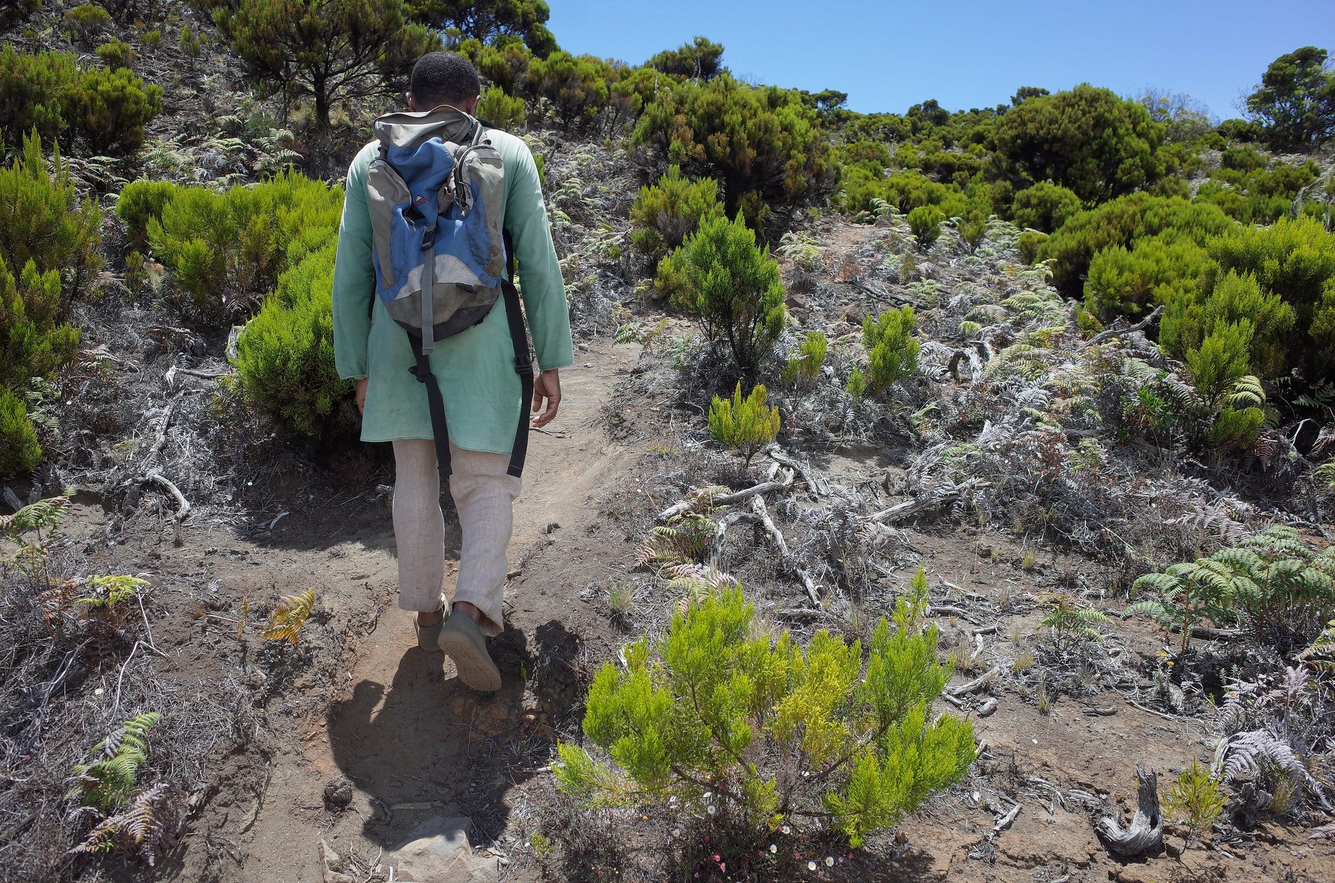
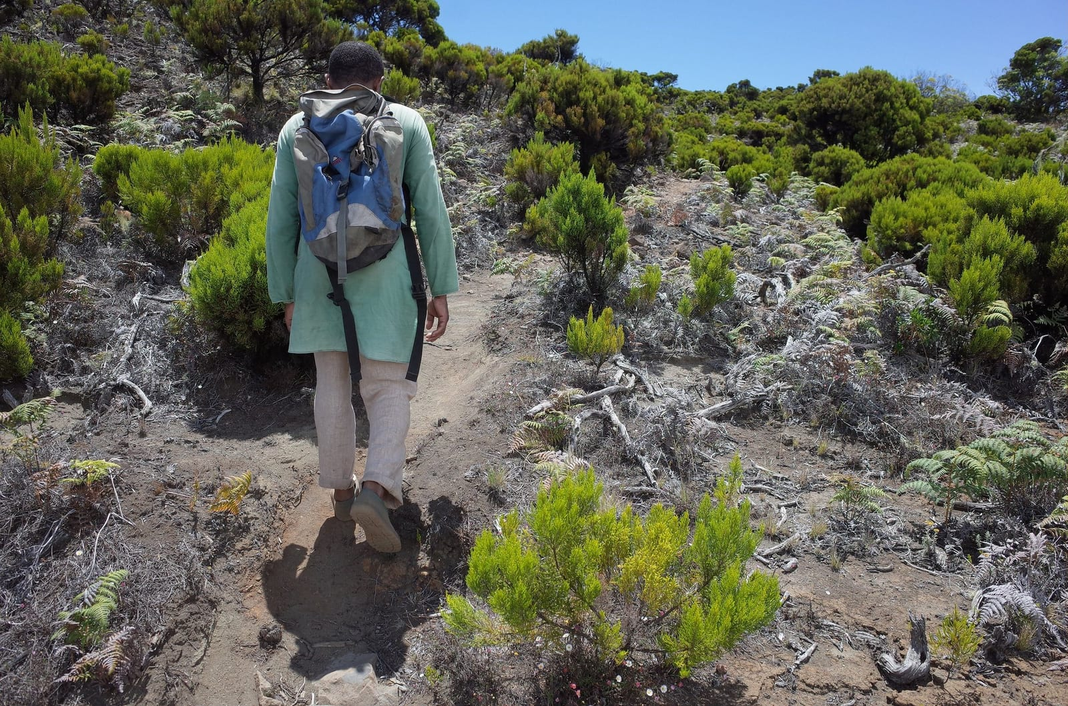
Audit de latence : cache, ISR, envoi d'e-mail différé, images allégées
Corrections de performance :
- Dev : Turbopack (compilation à la première visite 30 à 60 % plus rapide).
- Fiches lieu : ISR (pré-générées, cache 5 min, régénérées par l'admin
  et les nouveaux avis) au lieu d'un rendu à chaque visite ; le lieu
  n'est plus lu deux fois (generateMetadata + page) grâce à cache().
- Admin : requireAdmin() mémoïsé par requête (layout + page = une seule
  vérification en base), compteur du menu chargé en parallèle, écran de
  chargement instantané à chaque navigation.
- Bandeau d'alerte : mis en cache entre les requêtes (tag invalidé par
  l'admin) au lieu d'une requête sur chaque page.
- Contact : délais SMTP (10–20 s au lieu de jusqu'à 10 min) et e-mail
  envoyé après la réponse (after()).
- Photos locales redimensionnées à 1600 px max (11 Mo → 6,1 Mo) :
  première optimisation d'image 0,7 s → 0,26 s.
- Suppression d'un lieu : sa fiche publique en cache est invalidée.

Bug corrigé :
- Le formulaire de contact échouait systématiquement : le champ
  anti-spam « website » était transmis à Prisma, qui refusait
  l'enregistrement.

Claude-Session: https://claude.ai/code/session_013qhc4owDNV7CWZ7fu6og1k

diff --git a/src/lib/queries.ts b/src/lib/queries.ts
@@ -1,4 +1,5 @@
 import { cache } from "react";
+import { unstable_cache } from "next/cache";
 import { prisma } from "@/lib/db";
 import {
   parsePractical,
@@ -63,7 +64,8 @@ export async function listPlaces(filters: PlaceFilters = {}, take?: number): Pro
   return (rows as unknown[]).map(toCard);
 }
 
-export async function getPlaceBySlug(slug: string): Promise<PlaceDetail | null> {
+// cache() : generateMetadata et la page lisent le même lieu sans doubler la requête.
+export const getPlaceBySlug = cache(async (slug: string): Promise<PlaceDetail | null> => {
   const row = await prisma.place.findUnique({
     where: { slug },
     include: { ...placeInclude, images: { orderBy: { order: "asc" } } },
@@ -80,7 +82,7 @@ export async function getPlaceBySlug(slug: string): Promise<PlaceDetail | null> 
     practical: parsePractical(r.practicalInfo),
     images: r.images.map((i) => ({ id: i.id, url: i.url, alt: i.alt, order: i.order })),
   };
-}
+});
 
 export async function getAllPlaceSlugs(): Promise<{ slug: string; updatedAt: Date }[]> {
   const rows = await prisma.place.findMany({ select: { slug: true, updatedAt: true } });
@@ -139,10 +141,21 @@ export async function listReviews(opts: { page?: number; perPage?: number; place
   };
 }
 
+export const ALERT_TAG = "site-alert";
+
+// Affiché sur toutes les pages : mis en cache entre les requêtes, invalidé dès que l'admin modifie le bandeau.
+const cachedAlert = unstable_cache(
+  async () => {
+    const row = await prisma.siteAlert.findFirst({ where: { active: true }, orderBy: { id: "desc" }, select: { id: true, message: true, link: true } });
+    return row as unknown as { id: number; message: string; link: string | null } | null;
+  },
+  ["active-alert"],
+  { tags: [ALERT_TAG], revalidate: 600 },
+);
+
 export async function getActiveAlert() {
   try {
-    const row = await prisma.siteAlert.findFirst({ where: { active: true }, orderBy: { id: "desc" } });
-    return row as unknown as { id: number; message: string; link: string | null } | null;
+    return await cachedAlert();
   } catch {
     return null; // le site reste utilisable même si la base est indisponible
   }

diff --git a/src/actions/admin.ts b/src/actions/admin.ts
@@ -1,11 +1,12 @@
 "use server";
 
-import { revalidatePath } from "next/cache";
+import { revalidatePath, revalidateTag } from "next/cache";
 import { redirect } from "next/navigation";
 import { AuthError } from "next-auth";
 import { signIn, signOut } from "@/auth";
 import { requireAdmin } from "@/lib/admin";
 import { prisma } from "@/lib/db";
+import { ALERT_TAG } from "@/lib/queries";
 import { saveImage } from "@/lib/uploads";
 import { slugify } from "@/lib/utils";
 import bcrypt from "bcryptjs";
@@ -102,8 +103,9 @@ export async function deletePlace(formData: FormData) {
   await requireAdmin();
   const id = Number(formData.get("id"));
   if (!Number.isInteger(id)) return;
-  await prisma.place.delete({ where: { id } });
-  revalidateAll();
+  // La fiche publique est mise en cache : on récupère le slug pour l'invalider aussi.
+  const deleted = (await prisma.place.delete({ where: { id } })) as { slug: string };
+  revalidateAll(deleted.slug);
   redirect("/admin/lieux");
 }
 
@@ -203,6 +205,7 @@ export async function saveAlert(_prev: FormState, fd: FormData): Promise<FormSta
   const data = { message, link: link || null, active: !!active };
   if (current) await prisma.siteAlert.update({ where: { id: (current as { id: number }).id }, data });
   else await prisma.siteAlert.create({ data });
+  revalidateTag(ALERT_TAG);
   revalidatePath("/", "layout");
   return { ok: true, message: "Bandeau mis à jour." };
 }

diff --git a/src/actions/contact.ts b/src/actions/contact.ts
@@ -1,5 +1,6 @@
 "use server";
 
+import { after } from "next/server";
 import { prisma } from "@/lib/db";
 import { getClientIp, hashIp } from "@/lib/ip";
 import { sendContactMail } from "@/lib/mail";
@@ -24,8 +25,11 @@ export async function submitContact(_prev: FormState, formData: FormData): Promi
       return { ok: false, errors: { form: [msg] }, message: msg };
     }
     // Stockage d'abord : le message n'est jamais perdu, même si le SMTP est indisponible.
-    await prisma.contactMessage.create({ data: { ...parsed.data, ipHash } });
-    await sendContactMail(parsed.data);
+    // Champs explicites : le pot de miel « website » n'est pas une colonne (Prisma refuserait l'enregistrement).
+    const { name, email, subject, message } = parsed.data;
+    await prisma.contactMessage.create({ data: { name, email, subject, message, ipHash } });
+    // L'e-mail part après la réponse : le visiteur n'attend pas le serveur SMTP.
+    after(() => sendContactMail({ name, email, subject, message }));
     return { ok: true, message: "Merci, votre message est bien parti. Réponse sous 24 à 48 h." };
   } catch (e) {
     console.error("submitContact", e);

diff --git a/src/lib/admin.ts b/src/lib/admin.ts
@@ -1,3 +1,4 @@
+import { cache } from "react";
 import { redirect } from "next/navigation";
 import { auth } from "@/auth";
 import { prisma } from "@/lib/db";
@@ -6,11 +7,12 @@ import { prisma } from "@/lib/db";
  * Défense en profondeur : chaque page et action admin revérifie la session ET que le compte
  * existe toujours et est actif en base (un admin supprimé ou désactivé perd l'accès immédiatement).
  */
-export async function requireAdmin() {
+// cache() : le layout et la page partagent la même vérification au sein d'une requête (une seule lecture en base).
+export const requireAdmin = cache(async () => {
   const session = await auth();
   const id = Number(session?.user?.id);
   if (!session?.user || !Number.isInteger(id)) redirect("/admin/login");
   const user = (await prisma.adminUser.findUnique({ where: { id }, select: { id: true, active: true } })) as { id: number; active: boolean } | null;
   if (!user || !user.active) redirect("/admin/login");
   return { ...session, adminId: user.id };
-}
+});

diff --git a/src/app/destinations/[slug]/page.tsx b/src/app/destinations/[slug]/page.tsx
@@ -17,11 +17,16 @@ import { Badge } from "@/components/ui/badge";
 import { Button } from "@/components/ui/button";
 import { formatAverage, formatDate } from "@/lib/format";
 import { islandLetter } from "@/lib/islands";
-import { getPlaceBySlug, getReviewStats, listReviews } from "@/lib/queries";
+import { getAllPlaceSlugs, getPlaceBySlug, getReviewStats, listReviews } from "@/lib/queries";
 import { SITE } from "@/lib/site";
 import type { PracticalInfo } from "@/lib/types";
 
-export const dynamic = "force-dynamic";
+// Pages générées puis mises en cache 5 min ; l'admin et les nouveaux avis les régénèrent aussitôt (revalidatePath).
+export const revalidate = 300;
+
+export async function generateStaticParams() {
+  return (await getAllPlaceSlugs()).map((p) => ({ slug: p.slug }));
+}
 
 type Params = Promise<{ slug: string }>;
 

diff --git a/src/app/admin/(panel)/loading.tsx b/src/app/admin/(panel)/loading.tsx
@@ -1,0 +1,18 @@
+/** Affiché instantanément pendant le chargement d'une page admin (navigation perçue comme immédiate). */
+export default function AdminLoading() {
+  return (
+    <div role="status" aria-label="Chargement" className="animate-pulse space-y-6">
+      <div className="space-y-3">
+        <div className="h-8 w-56 rounded-lg bg-muted" />
+        <div className="h-4 w-80 max-w-full rounded bg-muted" />
+      </div>
+      <div className="grid gap-4 sm:grid-cols-2 lg:gap-6 xl:grid-cols-4">
+        {[0, 1, 2, 3].map((i) => (
+          <div key={i} className="h-24 rounded-2xl border bg-card" />
+        ))}
+      </div>
+      <div className="h-80 rounded-2xl border bg-card" />
+      <span className="sr-only">Chargement…</span>
+    </div>
+  );
+}

diff --git a/src/app/admin/(panel)/layout.tsx b/src/app/admin/(panel)/layout.tsx
@@ -5,8 +5,8 @@ import { prisma } from "@/lib/db";
 export const metadata = { robots: { index: false, follow: false } };
 
 export default async function PanelLayout({ children }: { children: React.ReactNode }) {
-  const session = await requireAdmin();
-  const toConfirm = (await prisma.place.count({ where: { status: "TO_CONFIRM" } })) as number;
+  // Le compteur n'est rendu que si requireAdmin réussit (sinon redirection) : on peut lancer les deux en parallèle.
+  const [session, toConfirm] = await Promise.all([requireAdmin(), prisma.place.count({ where: { status: "TO_CONFIRM" } }) as Promise<number>]);
   return (
     <AdminShell userName={session.user?.name ?? "Administrateur"} counts={{ "/admin/lieux": toConfirm }}>
       {children}

diff --git a/src/lib/mail.ts b/src/lib/mail.ts
@@ -13,6 +13,10 @@ export async function sendContactMail(m: { name: string; email: string; subject:
       port: Number(SMTP_PORT ?? 587),
       secure: SMTP_SECURE === "true",
       auth: SMTP_USER ? { user: SMTP_USER, pass: SMTP_PASS } : undefined,
+      // Sans ces délais, un serveur SMTP injoignable bloquerait la requête jusqu'à 10 minutes.
+      connectionTimeout: 10_000,
+      greetingTimeout: 10_000,
+      socketTimeout: 20_000,
     });
     await transport.sendMail({
       from: SMTP_FROM ?? CONTACT_TO,
